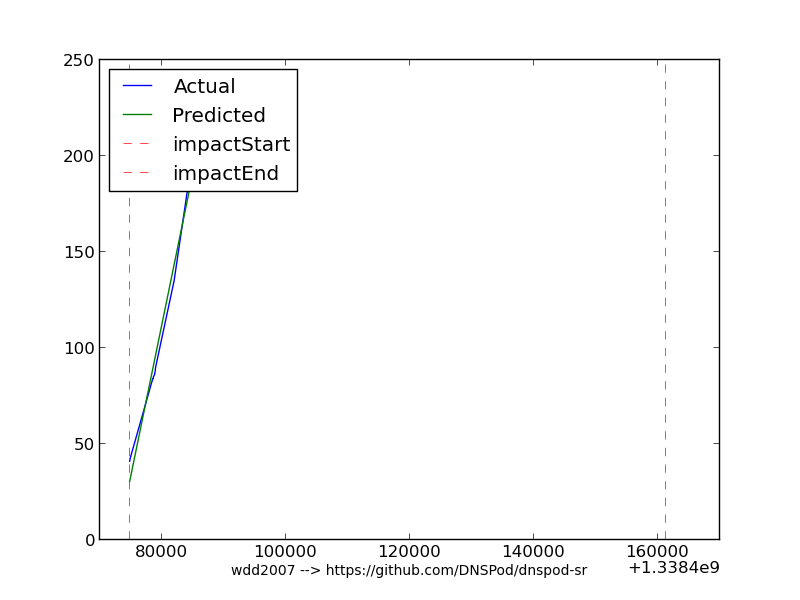
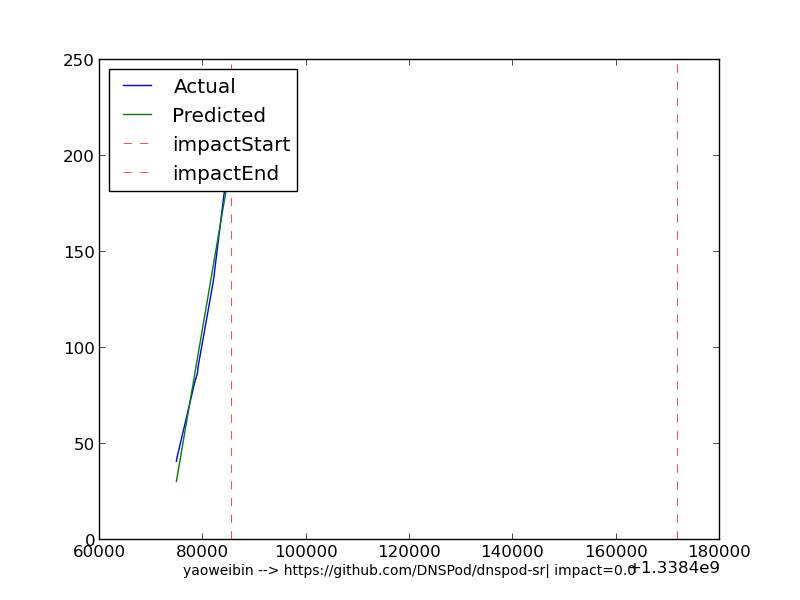
Weighted impact

diff --git a/python/highProfileWatchEvents.py b/python/highProfileWatchEvents.py
@@ -36,22 +36,42 @@ def func(x, a, b, c):
 def getUserRepoImpactVector(user):
 	con = mdb.connect('localhost', 'root', 'root', 'github')
 	try:
-		for user in users:
-			sql = 'SELECT repo_url, initialCount,finalCount FROM growthDelta WHERE actor='+'"'+user+'"'
-			cur.execute(sql)
-			impactRows = cur.fetchall()
-			#Calculate standard deviation in impact
-			impactVector =[]
-			for row in impactRows:
-				class Object(object):
-					pass
-				a = Object()
-				a.repo_url = row[0]
-				a.impact = row[2]-row[1]
-				impactVector.append(a)
+		sql = 'SELECT repo_url, initialCount,finalCount FROM growthDelta WHERE actor='+'"'+user+'"'
+		print sql
+		cur.execute(sql)
+		impactRows = cur.fetchall()
+		impactVector = []
+		for row in impactRows:
+			class Object(object):
+				pass
+			a = Object()
+			a.repo_url = row[0]
+			a.impact = row[2]-row[1]
+			a.followers = getFollowerCount(user)
+			impactVector.append(a)
 				
-			return impactVector
+		return impactVector
 	except Exception as e:
+		print 'Error in getUserRepoImpactVector'
+		print e
+		print sys.exc_traceback.tb_lineno 
+		pass
+		
+	finally:
+
+		if con:
+			con.close()	
+
+def getFollowerCount(user):
+	try:
+		con = mdb.connect('localhost', 'root', 'root', 'github')
+		sql = 'SELECT MAX(followedUser_followers) from FollowEvents WHERE followedUser_login='+'"'+user+'"'
+		cur = con.cursor()
+		cur.execute(sql)
+		return cur.fetchone()[0]
+		
+	except Exception as e:
+		print 'Error in getFollowerCount'
 		print e
 		print sys.exc_traceback.tb_lineno 
 		pass
@@ -62,23 +82,26 @@ def getUserRepoImpactVector(user):
 			con.close()	
 #Obtain the genuineness of an impact by a user by calculating the standard deviation of his impact on all repos
 def getImpactValueOfUser(user):
-	con = mdb.connect('localhost', 'root', 'root', 'github')
 	try:
 		weightVector = getUserRepoImpactVector(user)
+		noOfFollowers = getFollowerCount(user)
 		impactVector = []
 		for weight in weightVector:
-			impactVector.append(weight.impact)
-		std = np.std(weightVector)
+			val = weight.impact
+			followerCount = weight.followers
+			#Taking weighted impact, by number of followers
+			impactVector.append(val*followerCount)
+		std = np.std(impactVector)
 		return std
 	except Exception as e:
+		print 'Error in getImpactValueOfUser'
 		print e
 		print sys.exc_traceback.tb_lineno 
 		pass
 		
 	finally:
-
-		if con:
-			con.close()	
+		pass
+		
 
 #Return the predicted values obtained by curve_fit function in scipy
 def growthCurveByRepoURL(event):
@@ -170,15 +193,24 @@ def getGrowthDelta(growthCurve,timeStamp):
 		
 	return effect
 
+#In Progress
 def getDeviationOfRepo():
 	try:
-		sql = 'SELECT INTO '
+		con = mdb.connect('localhost', 'root', 'root', 'github')
+		cur = con.cursor()	
+		sql = 'SELECT DISTINCT repo_url from AllEvents'
+		cur.execute(sql)
+		users = cur.fetchall()
+		for user in users:
+			mdb.connect('')
+			sql = 'SELECT repo_url,min(repo_watchers),max(repo_watchers) from AllEvents '
 	except Exception, e:
 		print e
 		print sys.exc_traceback.tb_lineno 
 		pass
 	finally:
-		pass
+		if con:
+			con.close()
 
 
 try:
@@ -217,15 +249,15 @@ try:
 				if abs(growthFactor) > 10:
 					#To decide if the user's influence is legit
 					#TODO Decide on the value in the if condition
-					if getImpactValueOfUser(actor) < 10:  
-						plt.plot(growthCurve.X,growthCurve.Y)
-						plt.plot(growthCurve.X,growthCurve.AdjY)
-						plt.xlabel(a.actor+' --> '+a.repo_url, fontsize=10)
-						plt.axvline(growthCurve.startTime, color='r', linestyle='dashed', linewidth=0.5)
-						plt.axvline(growthCurve.startTime+24*3600, color='r', linestyle='dashed', linewidth=0.5)
-						plt.legend(['Actual', 'Predicted','impactStart','impactEnd'], loc='upper left')
-						plb.savefig('currentGeneratedCurves/'+a.repo_url[a.repo_url.rfind('/')+1:]+'.png')
-						plt.close()
+					#if getImpactValueOfUser(actor) < 10:  
+					plt.plot(growthCurve.X,growthCurve.Y)
+					plt.plot(growthCurve.X,growthCurve.AdjY)
+					plt.xlabel(a.actor+' --> '+a.repo_url+'| impact='+str(getImpactValueOfUser(actor)), fontsize=10)
+					plt.axvline(growthCurve.startTime, color='r', linestyle='dashed', linewidth=0.5)
+					plt.axvline(growthCurve.startTime+24*3600, color='r', linestyle='dashed', linewidth=0.5)
+					plt.legend(['Actual', 'Predicted','impactStart','impactEnd'], loc='upper left')
+					plb.savefig('currentGeneratedCurves/'+a.repo_url[a.repo_url.rfind('/')+1:]+'.png')
+					plt.close()
 
 except Exception as e:
 	print e
